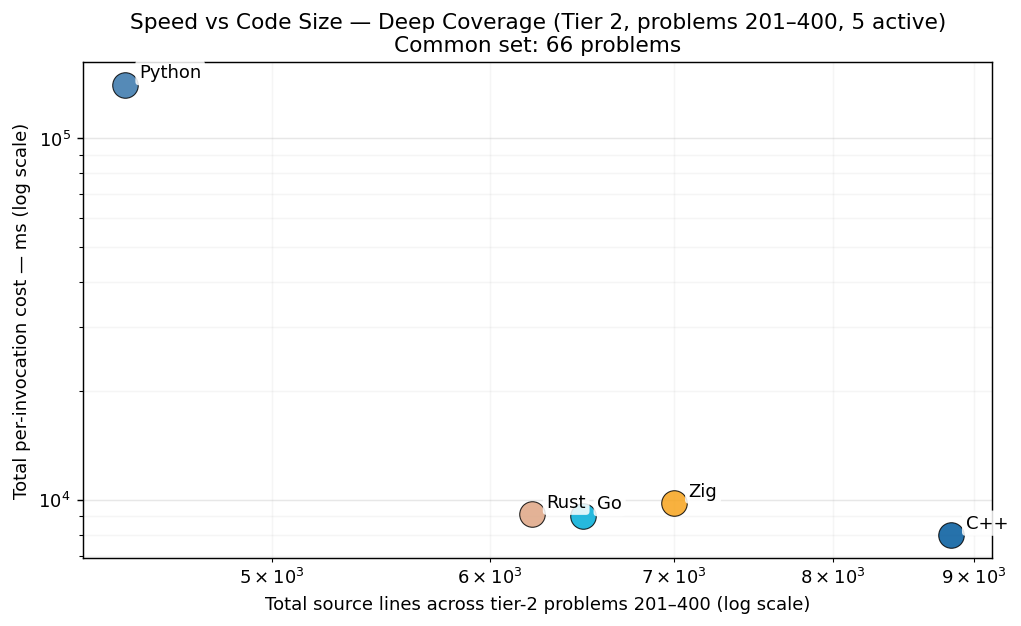
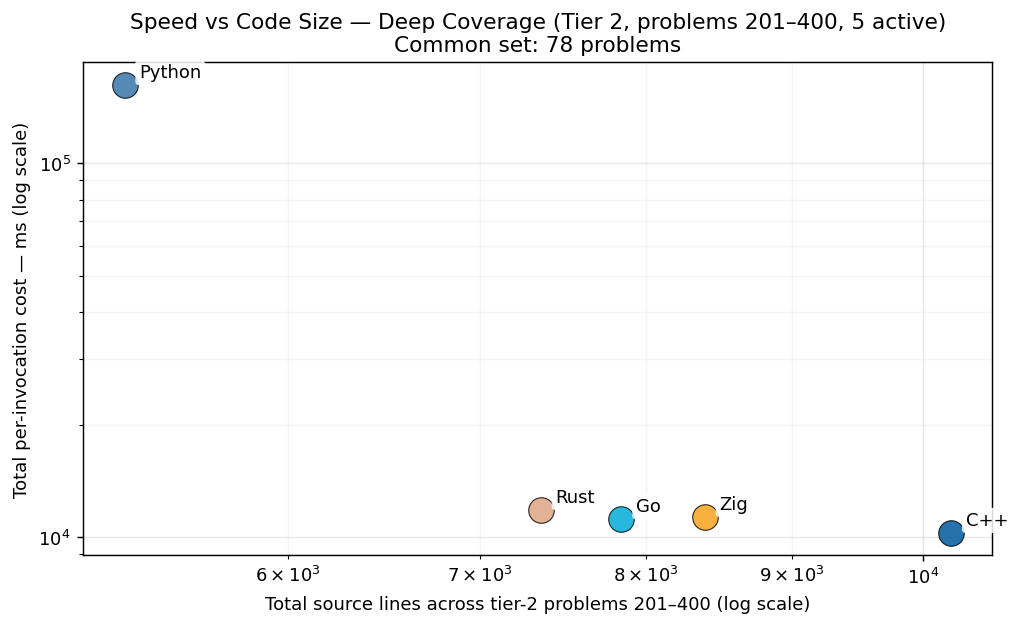
bench 301-400 quick wins: +116 cells across cpp/go/python/rust/zig (4 batches: A=6 all-5, B=6 all-5, C=8 4-lang, D=6 4-lang); tier-2 common-set now ~80+ problems

diff --git a/per_problem/per_problem_301-400.md b/per_problem/per_problem_301-400.md
@@ -10,54 +10,54 @@ column per language in tier-1 display order (native → managed → interpreted)
 
 | Problem | C++ | Rust | Zig | Go | Python |
 |---------|----:|----:|----:|----:|----:|
-| **p301** | — | — | — | — | — |
+| **p301** | 83 ns | — | 42 ns | 1.5 µs | 2.5 µs |
 | **p302** | — | — | — | — | — |
 | **p303** | — | — | — | — | — |
 | **p304** | — | — | — | — | — |
 | **p305** | — | — | — | — | — |
-| **p306** | — | — | — | — | — |
-| **p307** | — | — | — | — | — |
-| **p308** | — | — | — | — | — |
+| **p306** | 92.5 µs | — | 42 ns | 30.0 µs | 1.13 ms |
+| **p307** | 318.3 µs | — | 204.8 µs | 462.7 µs | 5.14 ms |
+| **p308** | 2.37 s | — | 2.35 s | 2.70 s | 6.48 s |
 | **p309** | — | — | — | — | — |
-| **p310** | — | — | — | — | — |
+| **p310** | 66.49 ms | — | 27.64 ms | 37.66 ms | 3.00 s |
 | **p311** | — | — | — | — | — |
 | **p312** | — | — | — | — | — |
-| **p313** | — | — | — | — | — |
+| **p313** | 4.95 ms | — | 2.41 ms | 3.22 ms | 3.99 ms |
 | **p314** | — | — | — | — | — |
 | **p315** | — | — | — | — | — |
 | **p316** | — | — | — | — | — |
-| **p317** | — | — | — | — | — |
-| **p318** | — | — | — | — | — |
+| **p317** | 83 ns | — | 42 ns | 1.2 µs | 4.5 µs |
+| **p318** | 276.5 µs | — | 42 ns | 370.1 µs | 8.02 ms |
 | **p319** | — | — | — | — | — |
 | **p320** | — | — | — | — | — |
-| **p321** | — | — | — | — | — |
+| **p321** | 2.8 µs | — | 42 ns | 9.5 µs | 14.5 µs |
 | **p322** | — | — | — | — | — |
-| **p323** | — | — | — | — | — |
+| **p323** | 167 ns | — | 42 ns | 2.3 µs | 13.5 µs |
 | **p324** | — | — | — | — | — |
 | **p325** | — | — | — | — | — |
-| **p326** | — | — | — | — | — |
-| **p327** | — | — | — | — | — |
+| **p326** | 19.86 ms | — | 19.07 ms | 22.03 ms | 62.40 ms |
+| **p327** | 1.1 µs | — | 42 ns | 2.0 µs | 41.2 µs |
 | **p328** | — | — | — | — | — |
 | **p329** | — | — | — | — | — |
-| **p330** | — | — | — | — | — |
+| **p330** | 1.71 ms | 909.9 µs | 41 ns | 390.1 µs | 3.74 ms |
 | **p331** | — | — | — | — | — |
-| **p332** | — | — | — | — | — |
-| **p333** | — | — | — | — | — |
-| **p334** | — | — | — | — | — |
-| **p335** | — | — | — | — | — |
+| **p332** | 1.93 s | 2.06 s | 1.27 s | 1.36 s | 10.35 s |
+| **p333** | 93.29 ms | 417.61 ms | 106.78 ms | 475.21 ms | 397.42 ms |
+| **p334** | 9.0 µs | 9.8 µs | 42 ns | 138.2 µs | 295.4 µs |
+| **p335** | 3.3 µs | 3.1 µs | 41 ns | 2.5 µs | 9.1 µs |
 | **p336** | — | — | — | — | — |
 | **p337** | — | — | — | — | — |
 | **p338** | — | — | — | — | — |
 | **p339** | — | — | — | — | — |
-| **p340** | — | — | — | — | — |
-| **p341** | — | — | — | — | — |
-| **p342** | — | — | — | — | — |
-| **p343** | — | — | — | — | — |
+| **p340** | 83 ns | 42 ns | 42 ns | 17.4 µs | 3.1 µs |
+| **p341** | 113.95 ms | 155.49 ms | 113.33 ms | 184.87 ms | 8.92 s |
+| **p342** | 3.48 ms | 4.85 ms | 4.57 ms | 5.34 ms | 57.00 ms |
+| **p343** | 96.45 ms | 79.24 ms | 50.70 ms | 67.10 ms | 1.48 s |
 | **p344** | — | — | — | — | — |
-| **p345** | — | — | — | — | — |
-| **p346** | — | — | — | — | — |
-| **p347** | — | — | — | — | — |
-| **p348** | — | — | — | — | — |
+| **p345** | 1.98 ms | 1.06 ms | 42 ns | 1.68 ms | 28.60 ms |
+| **p346** | 57.45 ms | 25.34 ms | 20.49 ms | 69.29 ms | 240.76 ms |
+| **p347** | 27.61 ms | 14.53 ms | 15.42 ms | 14.23 ms | 349.71 ms |
+| **p348** | 184.66 ms | — | 186.04 ms | 238.41 ms | 4.47 s |
 | **p349** | — | — | — | — | — |
 | **p350** | — | — | — | — | — |
 | **p351** | — | — | — | — | — |
@@ -90,7 +90,7 @@ column per language in tier-1 display order (native → managed → interpreted)
 | **p378** | — | — | — | — | — |
 | **p379** | — | — | — | — | — |
 | **p380** | — | — | — | — | — |
-| **p381** | — | — | — | — | — |
+| **p381** | 504.11 ms | — | 351.76 ms | 425.47 ms | 502.30 ms |
 | **p382** | — | — | — | — | — |
 | **p383** | — | — | — | — | — |
 | **p384** | — | — | — | — | — |

diff --git a/RESULTS.md b/RESULTS.md
@@ -1,6 +1,6 @@
 # Project Euler — Cross-Language Benchmarks
 
-> **Scope: 3000 in-scope cells across 400 problems × tiered languages — 2444 measured (81.5% coverage).**
+> **Scope: 3000 in-scope cells across 400 problems × tiered languages — 2560 measured (85.3% coverage).**
 > The cross-language ranking below is computed over the **200-problem common set** (problems in 1-200 where every language has a passing measurement) — the apples-to-apples Foundation comparison surface.  Per-tier rankings and coverage detail appear further below.
 > Growing carefully — each new problem and language is audited for state-leak
 > safety, verified for answer correctness, and added only when it cleanly fits the
@@ -46,17 +46,17 @@ How much code does each language need to solve these 200 Foundation problems, an
 
 Same per-invocation metric, restricted to the deeper subset of languages (C++, Go, Python, Rust, Zig) that intentionally pushed past problem 200. The other 5 Foundation languages are out of tier scope here — they're capped at 200 by the project's language-cap policy (see JOURNEY.md).
 
-### Per-Invocation Cost (Common Set, 66 of 200 problems)
+### Per-Invocation Cost (Common Set, 78 of 200 problems)
 
 ![Per-Invocation Cost — Tier 2](charts/per_iter_total_tier2.png)
 
-| Rank | Language | Total (66-problem common set) | Lines of code | vs Fastest |
+| Rank | Language | Total (78-problem common set) | Lines of code | vs Fastest |
 |------|----------|--------------------:|--------------:|-----------:|
-| 1 | **C++** | 7.96 s | 8,832 | 1.00× |
-| 2 | **Go** | 9.02 s | 6,486 | 1.13× |
-| 3 | **Rust** | 9.10 s | 6,216 | 1.14× |
-| 4 | **Zig** | 9.77 s | 7,003 | 1.23× |
-| 5 | **Python** | 140.44 s | 4,418 | 17.64× |
+| 1 | **C++** | 10.29 s | 10,227 | 1.00× |
+| 2 | **Go** | 11.19 s | 7,845 | 1.09× |
+| 3 | **Zig** | 11.36 s | 8,389 | 1.10× |
+| 4 | **Rust** | 11.85 s | 7,353 | 1.15× |
+| 5 | **Python** | 162.27 s | 5,261 | 15.78× |
 
 ### Speed vs Code Size
 
